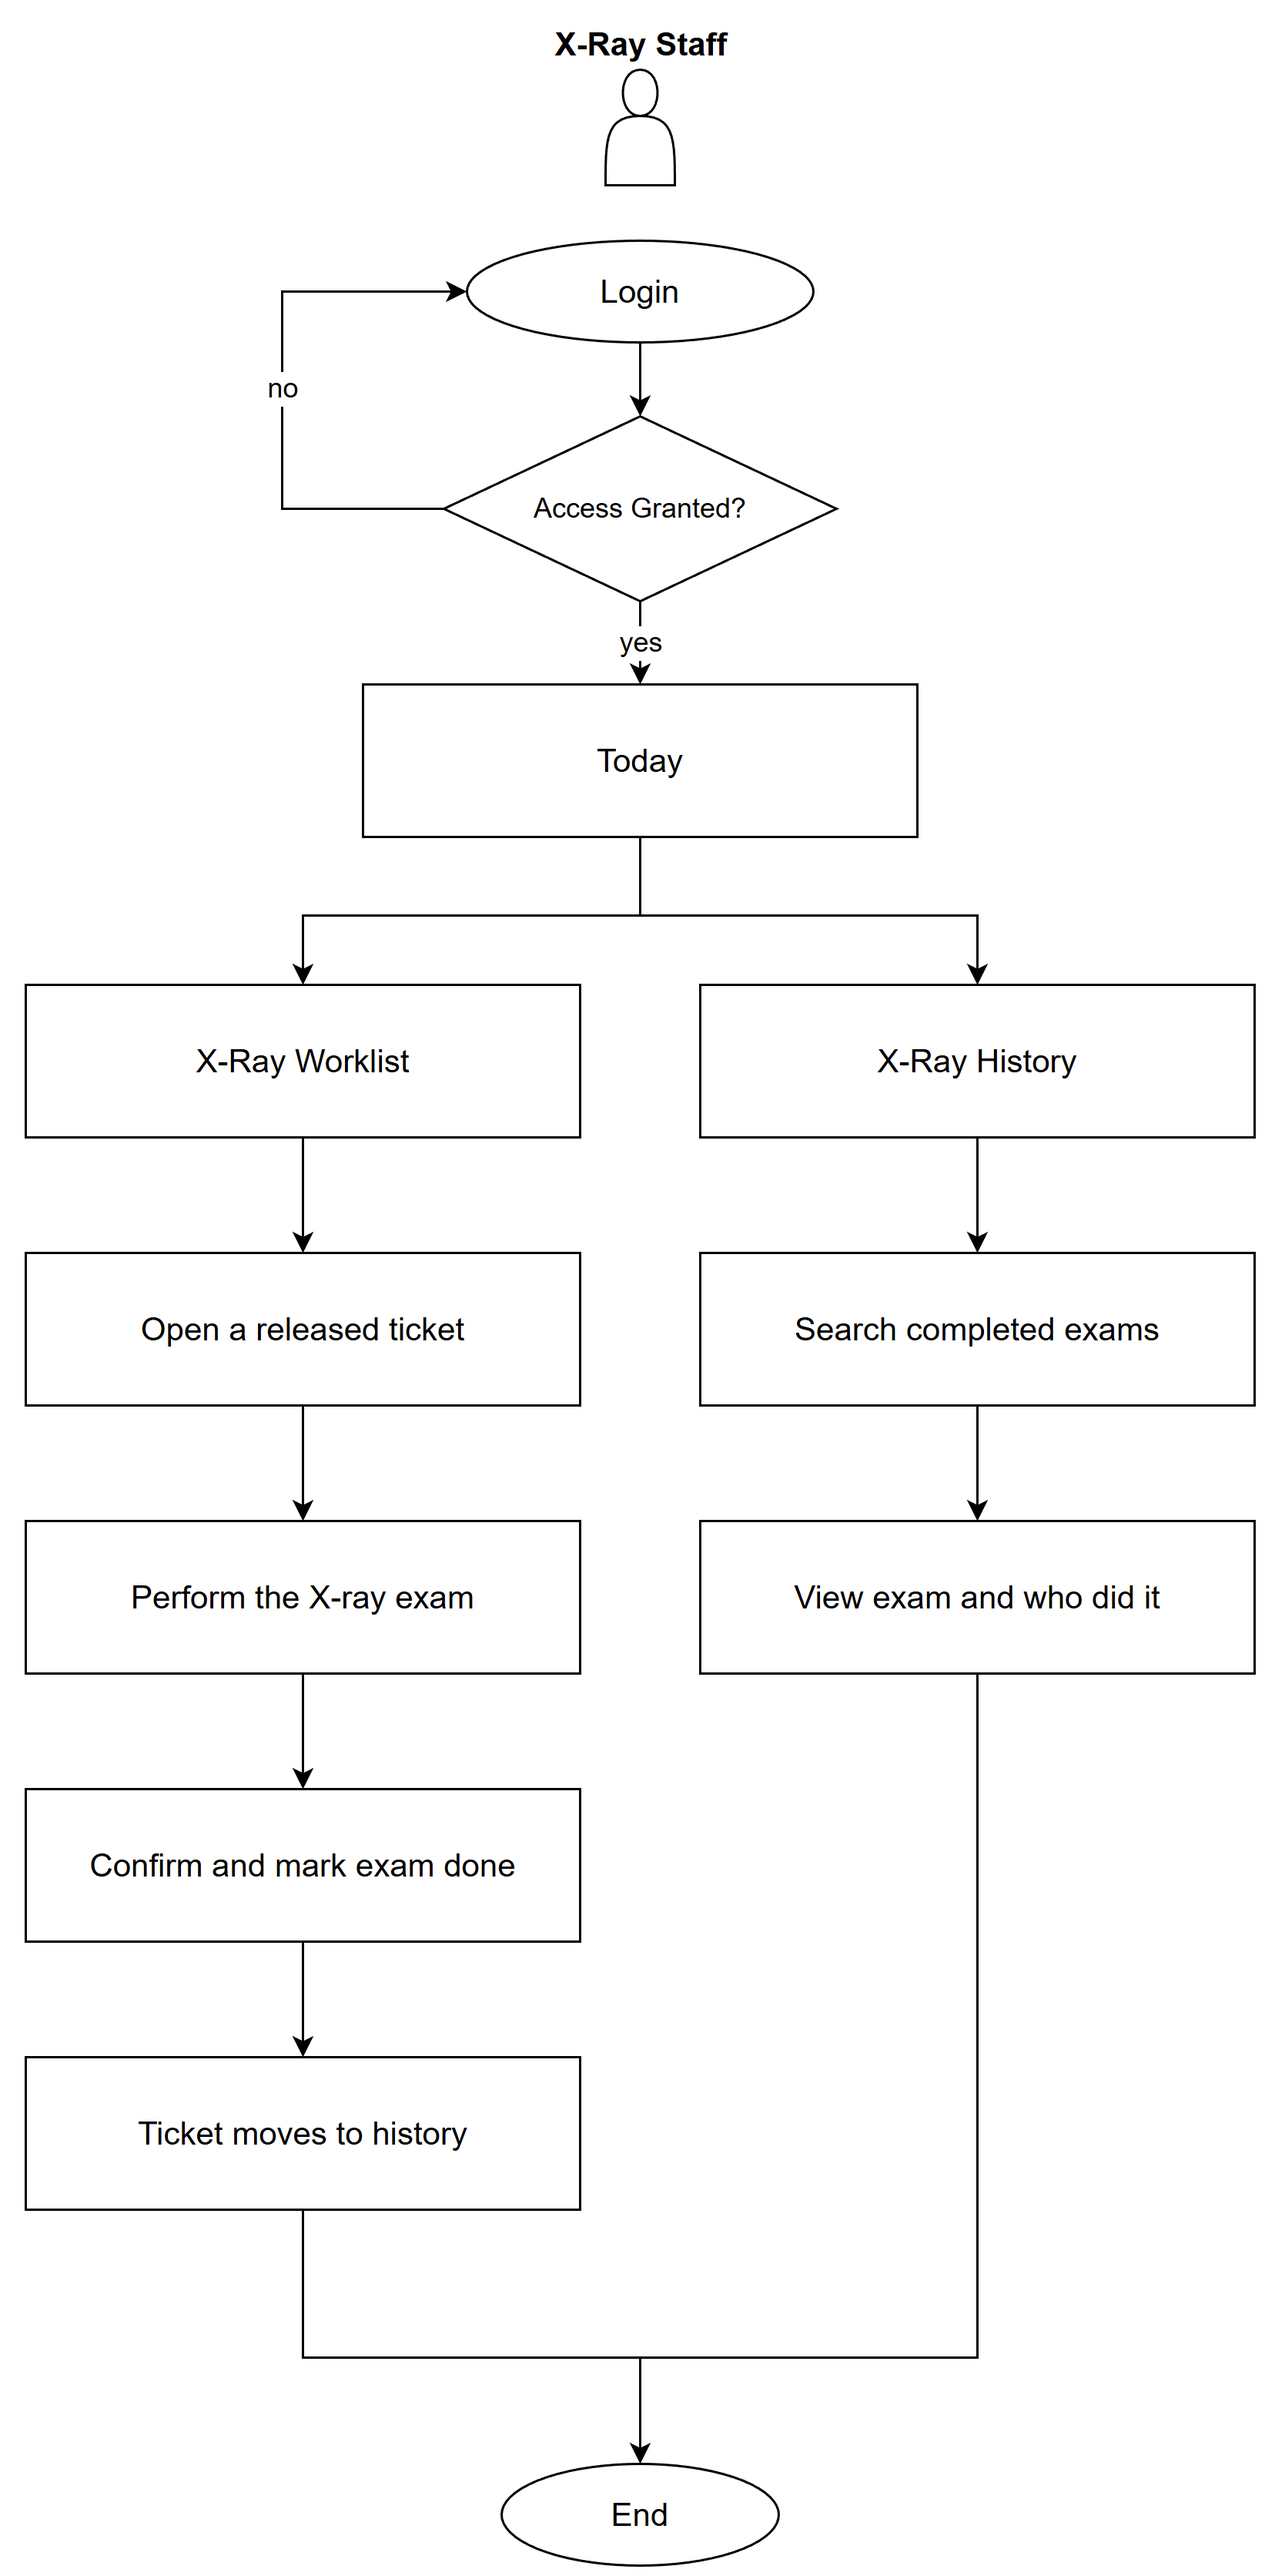
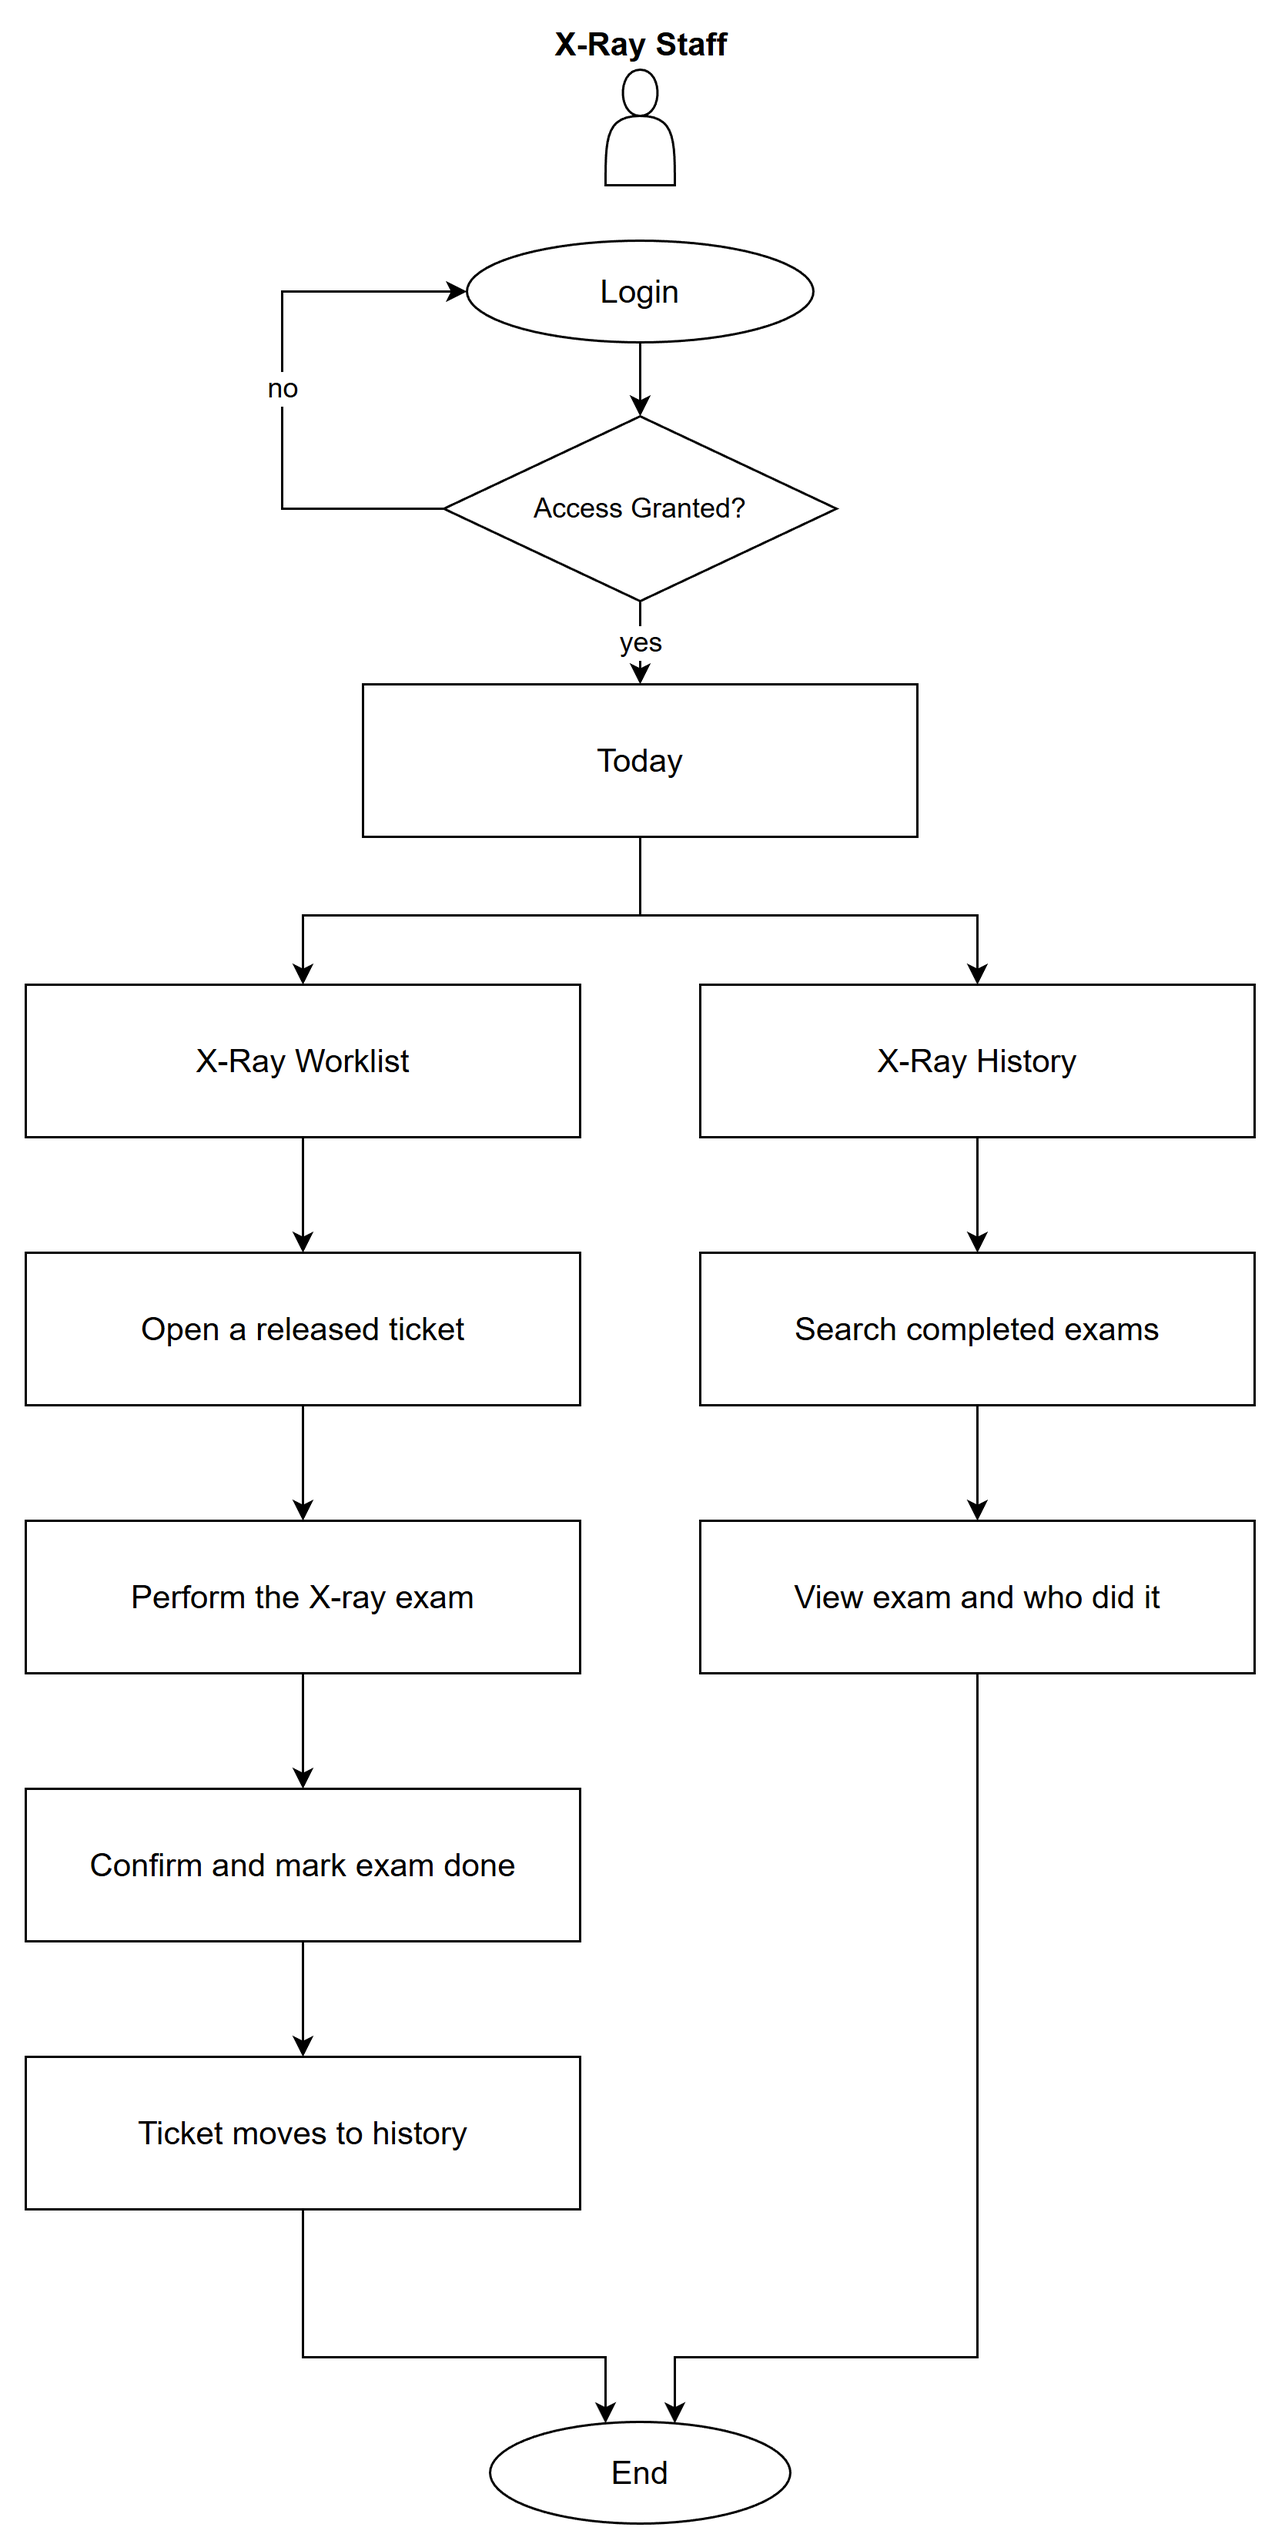
Give every flowchart arrow its own line and arrowhead
Lines into End no longer meet on one corridor and enter as one arrow: each has its own
nested lane and its own point on End's outline. A branch that rejoins lands beside the main
arrow with its own arrowhead instead of joining its line. A shared line read as boxes
connected to each other, which a panel would see on the projector.

diff --git a/database/migrations.md b/database/migrations.md
@@ -1,5 +1,31 @@
 # Database Migration & Schema History
 
+## [1.135.0] - 2026-10-19 (Every flowchart arrow is its own)
+
+No migration. Documentation only.
+
+Steven: "make their arrows in flowcharts separated so we can know the connection, cause these
+will be bad when we present this". Two places shared a line, so a figure could not say which box
+led where, and on a projector a shared line reads as boxes connected to each other:
+
+- **Into End.** Every column's last step and every branch that finishes ran down to one corridor
+  and entered End as a single arrow (eight columns into one arrowhead on Admin's chart). Each line
+  now has its own entry point along End's top, in left-to-right order, and its own lane to reach
+  it; the lanes nest the way the Level 0 DFD's corridors do (of the lines coming from the left, the
+  furthest out runs lowest and lands furthest left, mirrored on the right), so none cross. End
+  widens with the number of lines. A line already over its entry point drops straight in, and the
+  row of entries slides by up to half a gap so the line nearest one does (the Cashier's middle
+  column jogged 15px otherwise). Each line's end is fixed on the ellipse at the curve's own height
+  (`entryPerimeter=0`): left to draw.io, a straight drop was turned along to End's centre, onto
+  another line's arrowhead, because its router alternates vertical and horizontal segments.
+- **Where a branch rejoins.** The branch's line joined the main path just above the target and
+  shared its arrow, so the decision's "no" and the branch met on one segment. It now lands on the
+  target's top beside the main arrow (a quarter of the way in, or on a diamond's upper-right edge),
+  with its own arrowhead. Still into the TOP, per [1.102.0].
+
+All eight flowchart PNGs changed; nothing else. `checkDiagrams.cjs` is Clean, but it cannot see a
+line lying on a line; every chart was looked at.
+
 ## [1.134.0] - 2026-10-19 (The diagrams checked against the system, and what [1.133.0] still had wrong)
 
 No migration. Documentation only.

diff --git a/CLAUDE.md b/CLAUDE.md
@@ -1478,4 +1478,8 @@ Services Catalogue.
   columns fanning out below off one shared bus (on a chained chart the header sits over the first
   column, or its fan crosses the chain's link corridor). **It says a thing once**: the Desk's
   walk-in path was drawn three times, each ending in its own queue ticket. A branch that rejoins
-  merges into the TOP of its target, never the right edge.
+  merges into the TOP of its target, never the right edge. **Every arrow is its own** `[1.135.0]`:
+  a rejoining branch lands beside the main path's arrow with an arrowhead of its own, and every
+  line into End has its own nested lane and its own point on End's outline, so no two lines share
+  a segment or an arrowhead (Steven: a shared line reads as boxes connected to each other when
+  presented). `checkDiagrams.cjs` cannot see a line on a line; look at the PNGs.
